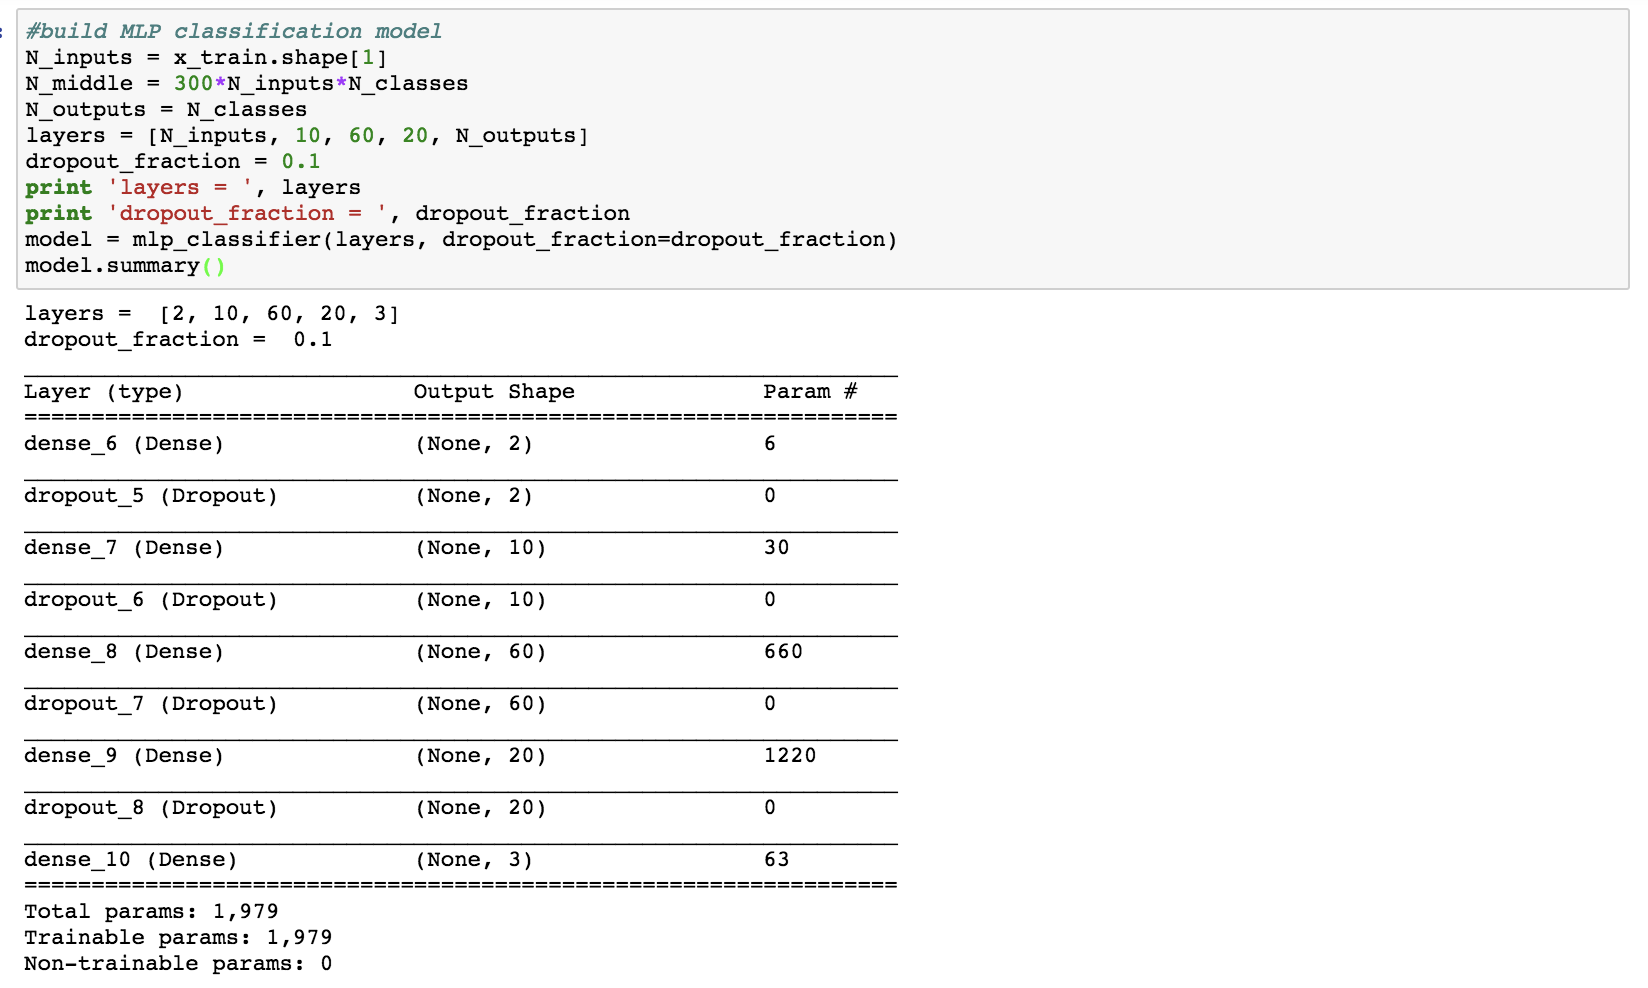
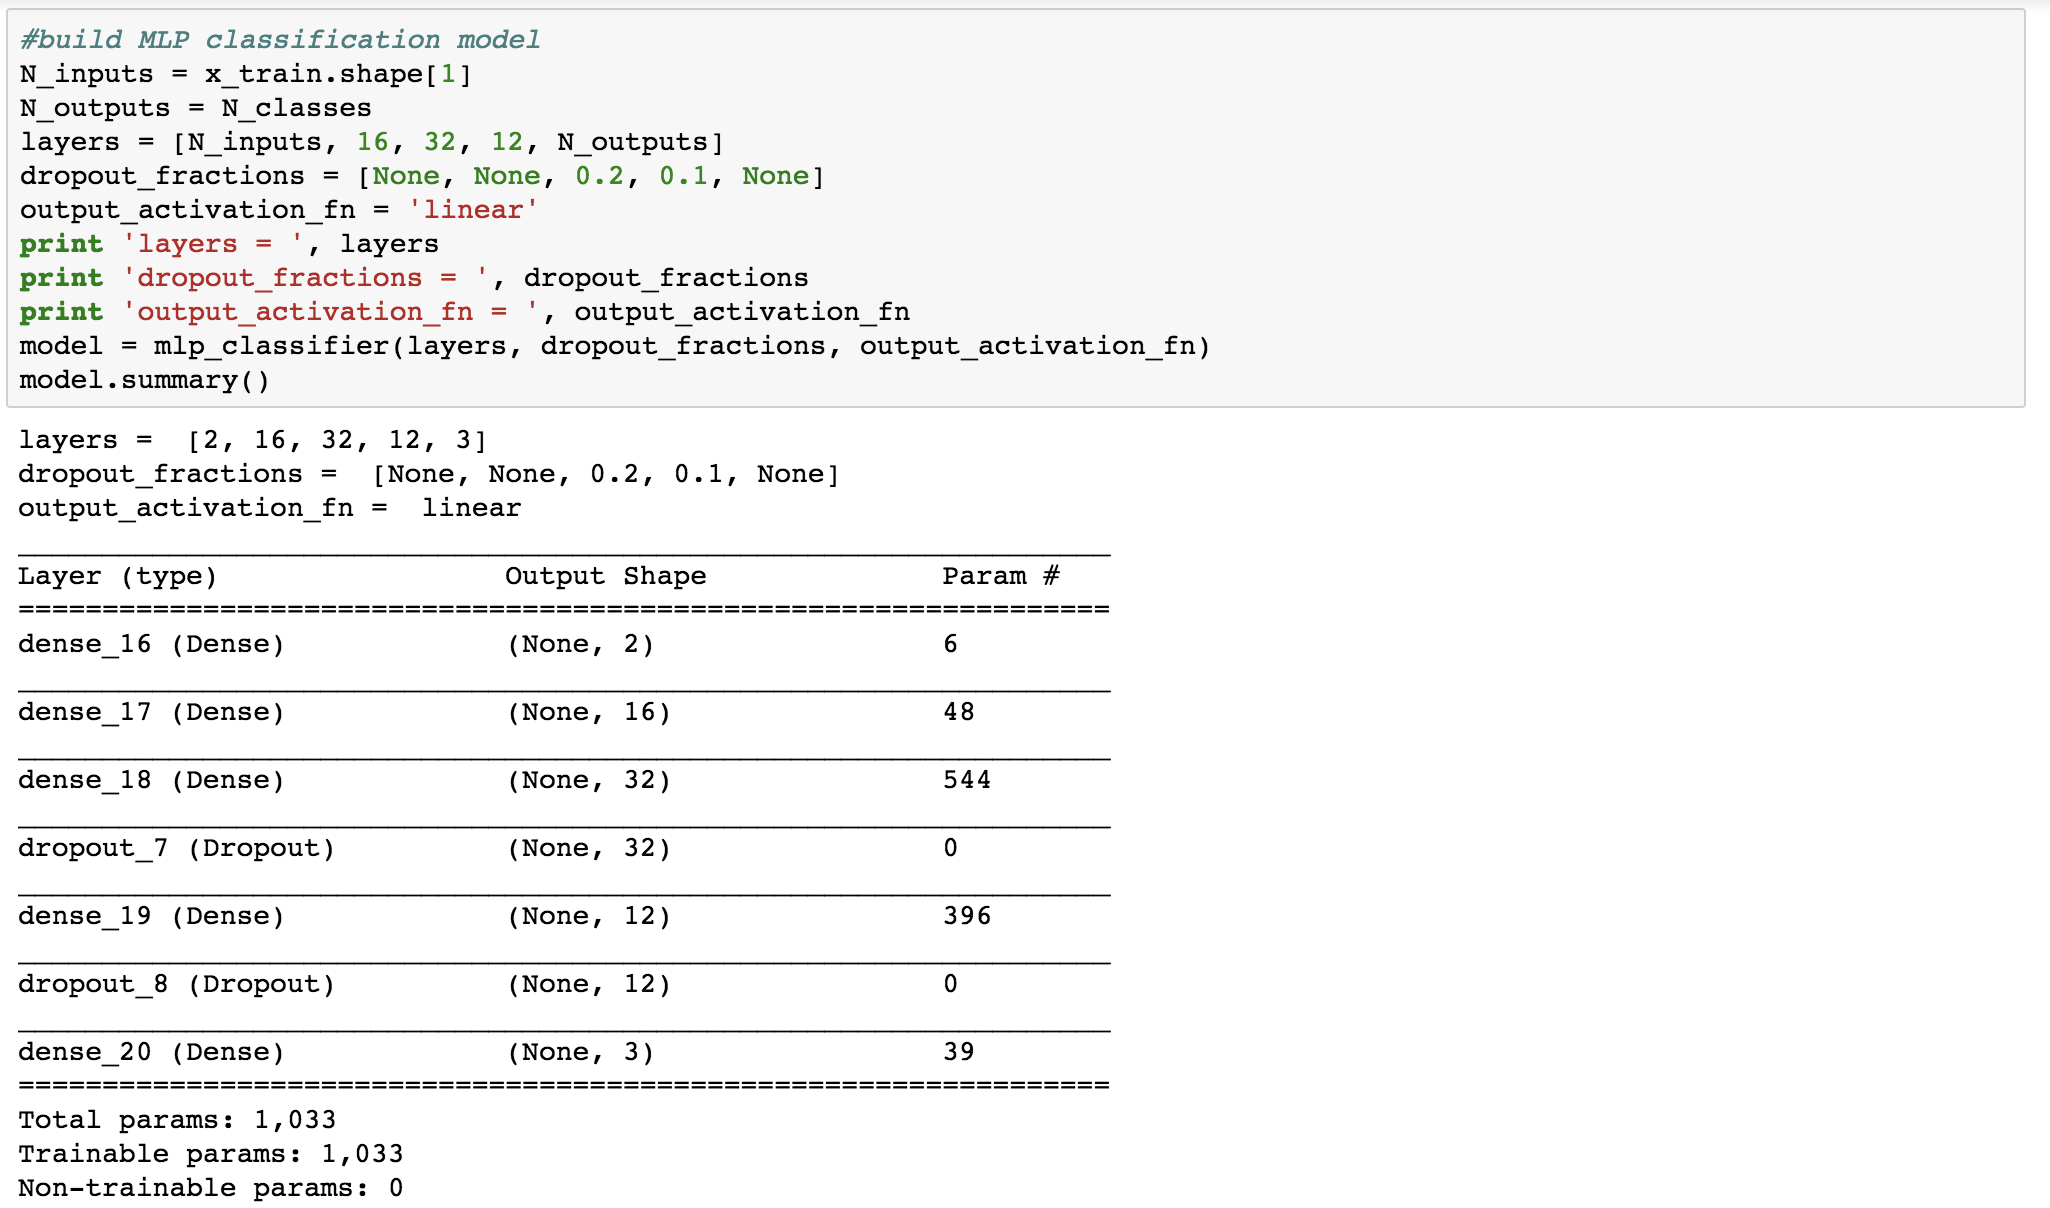
mlp

Changed region(s): [[0.0, 0.0, 0.9903, 1.0]]

diff --git a/README.md b/README.md
@@ -116,8 +116,6 @@ so the model reports that a record having (x,y)=(1,2) is most likely class O, wi
 
 1 publish a report or dashboard
 
-2 try mlp model using activation='sigmoid' and loss='categorical_crossentropy'
-
 3 add hashed password
 
 4 try training model on polar rather than cartesian coordinates, that might boost
@@ -125,7 +123,15 @@ model accuracy
 
 ### notes
 
-2 install jupyter-tensorboard ...didnt work
+1 The MLP model was first trained on the (x,y) cartesian coordinates, and that model
+was as accurate as the SVM model. Then MLP was trained on the (r,angle) polar
+coordinates, that model was less accurate. Current MLP model is now trained on 
+the redundant set of (x,y,r,angle) data, and is as good as SVM.
+
+1 training MLP model on bit-mapped (x,y) input data might improve model accuracy. 
+Using bit-mapped input + convolution neural net (rather than MLP) might be even better
+
+3 install jupyter-tensorboard ...didnt work
 
     pip install jupyter-tensorboard
     #get external ip address:
@@ -136,7 +142,7 @@ model accuracy
     tensorboard --logdir=tf_logs/
     http://52.89.99.15:6006
 
-3 force a git pull:
+4 force a git pull:
 
     git fetch --all
     git reset --hard origin/master
